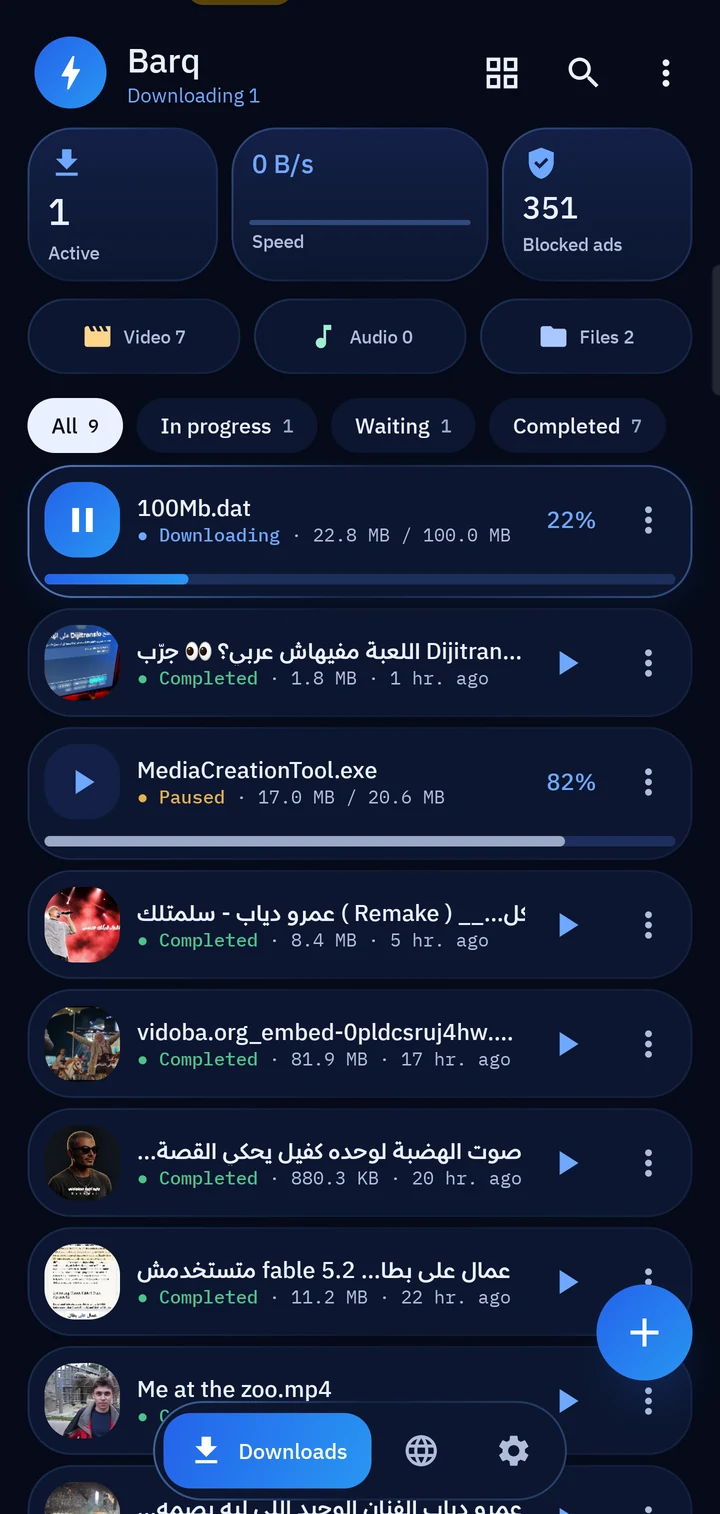
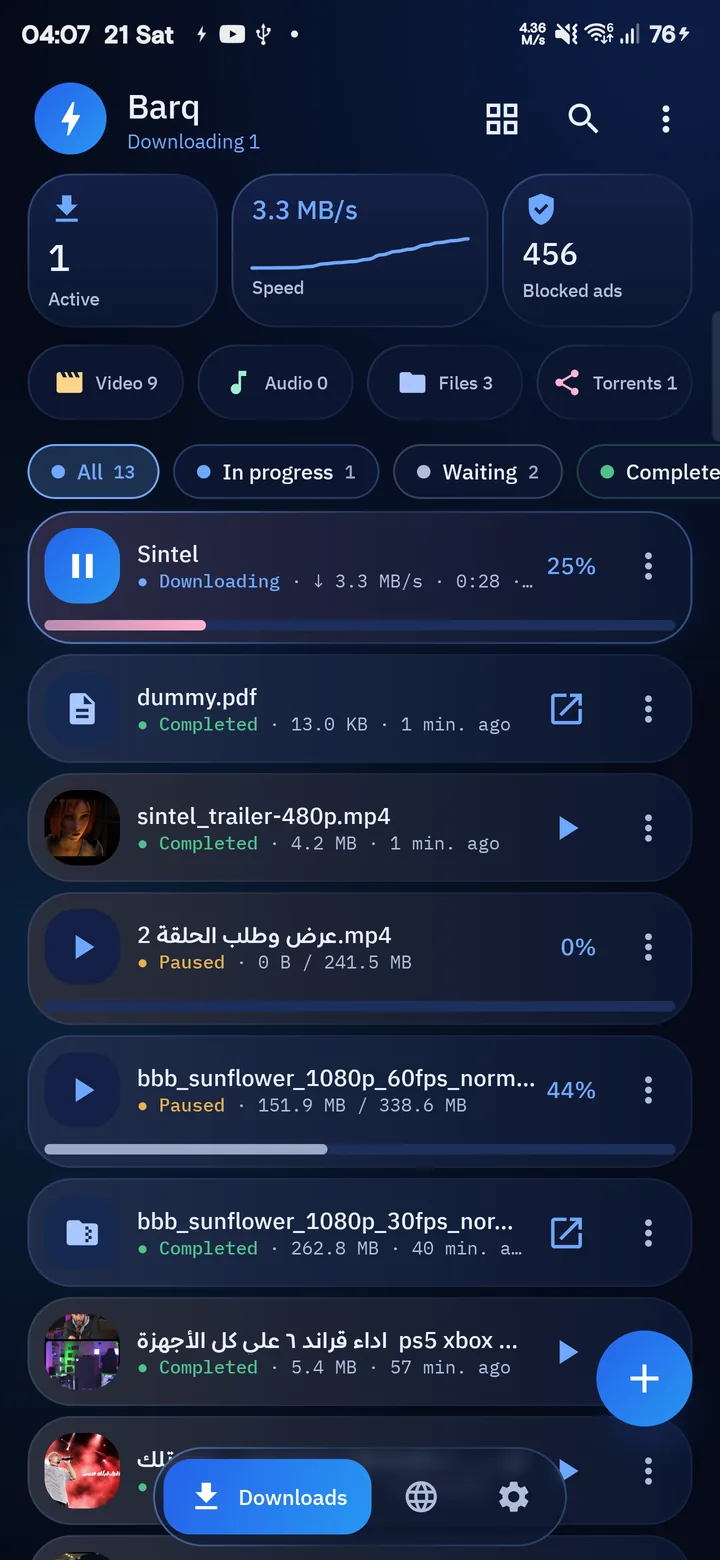
Barq 0.9.2: torrents, new screenshots and animated demos

diff --git a/index.html b/index.html
@@ -33,6 +33,9 @@
     <symbol id="i-wifi" viewBox="0 0 24 24"><path d="M3 9a14 14 0 0 1 18 0M6 12.5a9.5 9.5 0 0 1 12 0M9 16a5 5 0 0 1 6 0" fill="none" stroke="currentColor" stroke-width="1.8" stroke-linecap="round"/><circle cx="12" cy="19" r="1.4" fill="currentColor"/></symbol>
     <symbol id="i-clock" viewBox="0 0 24 24"><circle cx="12" cy="12" r="9" fill="none" stroke="currentColor" stroke-width="1.8"/><path d="M12 7v5l3 2" fill="none" stroke="currentColor" stroke-width="1.8" stroke-linecap="round"/></symbol>
     <symbol id="i-sliders" viewBox="0 0 24 24"><path d="M4 7h10M18 7h2M4 17h2M10 17h10" fill="none" stroke="currentColor" stroke-width="1.8" stroke-linecap="round"/><circle cx="16" cy="7" r="2.2" fill="none" stroke="currentColor" stroke-width="1.8"/><circle cx="8" cy="17" r="2.2" fill="none" stroke="currentColor" stroke-width="1.8"/></symbol>
+    <symbol id="i-torrent" viewBox="0 0 24 24"><circle cx="12" cy="12" r="3" fill="none" stroke="currentColor" stroke-width="1.8"/><circle cx="5" cy="6" r="2" fill="none" stroke="currentColor" stroke-width="1.8"/><circle cx="19" cy="6" r="2" fill="none" stroke="currentColor" stroke-width="1.8"/><circle cx="12" cy="20" r="2" fill="none" stroke="currentColor" stroke-width="1.8"/><path d="M6.5 7.5 10 10.5M17.5 7.5 14 10.5M12 15v3" fill="none" stroke="currentColor" stroke-width="1.8" stroke-linecap="round"/></symbol>
+    <symbol id="i-search" viewBox="0 0 24 24"><circle cx="11" cy="11" r="6.5" fill="none" stroke="currentColor" stroke-width="1.8"/><path d="m16 16 4.5 4.5" fill="none" stroke="currentColor" stroke-width="1.8" stroke-linecap="round"/></symbol>
+    <symbol id="i-update" viewBox="0 0 24 24"><path d="M20 12a8 8 0 1 1-2.4-5.7M20 4v4.5h-4.5" fill="none" stroke="currentColor" stroke-width="1.8" stroke-linecap="round" stroke-linejoin="round"/></symbol>
   </defs>
 </svg>
 
@@ -42,6 +45,7 @@
     <nav class="nav-links" aria-label="Main">
       <a href="#features" data-i="nav.features">Features</a>
       <a href="#showcase" data-i="nav.showcase">Inside the app</a>
+      <a href="#demos" data-i="nav.demos">How it works</a>
       <a href="#customize" data-i="nav.custom">Make it yours</a>
       <a href="#faq" data-i="nav.faq">FAQ</a>
     </nav>
@@ -59,7 +63,7 @@
   <section class="hero">
     <div class="wrap">
       <div class="rv">
-        <span class="pill"><i></i><span data-i="hero.pill">Version 0.9.1 · Android 10 and up</span></span>
+        <span class="pill"><i></i><span data-i="hero.pill">Version 0.9.2 · Android 10 and up</span></span>
         <h1><span data-i="hero.h1a">Download anything.</span><br><span class="grad" data-i="hero.h1b">At lightning speed.</span></h1>
         <p class="lead" data-i="hero.lead">Barq is a smart download manager for Android. Files and videos in the best quality, a browser that spots links, and a floating window to keep an eye on everything.</p>
         <div class="cta">
@@ -106,17 +110,21 @@
       <div class="show rv">
         <div class="tabs" role="tablist">
           <button class="tab" role="tab" aria-selected="true"><h3><em>1</em><span data-i="t1.h">Your downloads at a glance</span></h3><p data-i="t1.p">Active downloads, live speed and blocked ads on top. Below, every file with a coloured state: completed, paused, failed or downloading.</p></button>
-          <button class="tab" role="tab" aria-selected="false"><h3><em>2</em><span data-i="t2.h">Every quality in one window</span></h3><p data-i="t2.p">Share a video link to Barq and a compact window lists every quality with its size, from 144p to 4K. Pick MP4 or MKV, or audio only.</p></button>
-          <button class="tab" role="tab" aria-selected="false"><h3><em>3</em><span data-i="t3.h">Smart downloading</span></h3><p data-i="t3.p">Schedule downloads for set hours, sort files into folders by type, set a speed limit in one tap, and download on Wi-Fi only.</p></button>
-          <button class="tab" role="tab" aria-selected="false"><h3><em>4</em><span data-i="t4.h">Settings that make sense</span></h3><p data-i="t4.p">Each section is one clear row with its current value underneath, so you rarely need to open a page to know where things stand.</p></button>
-          <button class="tab" role="tab" aria-selected="false"><h3><em>5</em><span data-i="t5.h">Ready in seconds</span></h3><p data-i="t5.p">The first launch explains the few permissions Barq needs, then everything works on its own.</p></button>
+          <button class="tab" role="tab" aria-selected="false"><h3><em>2</em><span data-i="t6.h">Torrents, like uTorrent</span></h3><p data-i="t6.p">Open a magnet link or a .torrent file, pick the files you want, and download in order if you want to play while it downloads.</p></button>
+          <button class="tab" role="tab" aria-selected="false"><h3><em>3</em><span data-i="t7.h">Peers, trackers and sharing</span></h3><p data-i="t7.p">See live speed, peers, trackers and the share ratio. Set priorities per file, speed limits, and keep sharing after it finishes.</p></button>
+          <button class="tab" role="tab" aria-selected="false"><h3><em>4</em><span data-i="t8.h">A browser with a start page</span></h3><p data-i="t8.p">Quick sites, your latest downloads and recent pages. The download button shows up only on pages with a playing video.</p></button>
+          <button class="tab" role="tab" aria-selected="false"><h3><em>5</em><span data-i="t2.h">Every quality in one window</span></h3><p data-i="t2.p">Share a video link to Barq and a compact window lists every quality with its size, from 144p to 4K. Pick MP4 or MKV, or audio only.</p></button>
+          <button class="tab" role="tab" aria-selected="false"><h3><em>6</em><span data-i="t3.h">Smart downloading</span></h3><p data-i="t3.p">Schedule downloads for set hours, sort files into folders by type, set a speed limit in one tap, and download on Wi-Fi only.</p></button>
+          <button class="tab" role="tab" aria-selected="false"><h3><em>7</em><span data-i="t4.h">Settings that make sense</span></h3><p data-i="t4.p">Each section is one clear row with its current value underneath, so you rarely need to open a page to know where things stand.</p></button>
         </div>
         <div class="phone-col"><div class="phone"><div class="screen" id="showScreen">
-          <img src="assets/img/downloads.webp" alt="Barq downloads screen" width="720" height="1514" loading="lazy">
-          <img src="assets/img/video.webp" alt="Barq video quality window" width="720" height="1514" loading="lazy">
-          <img src="assets/img/smart.webp" alt="Barq download settings" width="720" height="1514" loading="lazy">
-          <img src="assets/img/settings.webp" alt="Barq settings" width="720" height="1514" loading="lazy">
-          <img src="assets/img/permissions.webp" alt="Barq permissions dialog" width="720" height="1514" loading="lazy">
+          <img src="assets/img/downloads.webp" alt="Barq downloads screen with coloured filters" width="720" height="1560">
+          <img src="assets/img/torrent-sheet.webp" alt="Barq torrent file picker" width="720" height="1560" loading="lazy">
+          <img src="assets/img/torrent-detail.webp" alt="Barq torrent details" width="720" height="1560" loading="lazy">
+          <img src="assets/img/browser-start.webp" alt="Barq browser start page" width="720" height="1560" loading="lazy">
+          <img src="assets/img/video.webp" alt="Barq video quality window" width="720" height="1560" loading="lazy">
+          <img src="assets/img/smart.webp" alt="Barq download settings" width="720" height="1560" loading="lazy">
+          <img src="assets/img/settings.webp" alt="Barq settings" width="720" height="1560" loading="lazy">
         </div></div></div>
       </div>
     </div>
@@ -139,6 +147,9 @@
         <article class="card rv"><div class="ic"><svg><use href="#i-pip"/></svg></div><h3 data-i="f6.h">Floating window</h3><p data-i="f6.p">Progress, speed and a quick pause over any app, even inside the Barq browser.</p></article>
         <article class="card rv"><div class="ic"><svg><use href="#i-wifi"/></svg></div><h3 data-i="f7.h">Never loses a download</h3><p data-i="f7.p">Lost the internet? Downloads wait and continue by themselves. Wi-Fi only and low battery rules are there too.</p></article>
         <article class="card rv"><div class="ic"><svg><use href="#i-clock"/></svg></div><h3 data-i="f8.h">Schedule and sort</h3><p data-i="f8.p">Pick the hours downloads may run (say, at night). Files are sorted into Video, Audio, Images, Documents and Apps folders.</p></article>
+        <article class="card rv"><div class="ic"><svg><use href="#i-torrent"/></svg></div><h3 data-i="f10.h">Torrents</h3><p data-i="f10.p">Magnet links and .torrent files with a file picker, peers, trackers, speed limits and sharing, like uTorrent.</p></article>
+        <article class="card rv"><div class="ic"><svg><use href="#i-search"/></svg></div><h3 data-i="f11.h">Search or paste a link</h3><p data-i="f11.p">The Downloads search box also takes a link: a file downloads, a page opens in the browser. Nothing found? Search Google in one tap.</p></article>
+        <article class="card rv"><div class="ic"><svg><use href="#i-update"/></svg></div><h3 data-i="f12.h">Light and always up to date</h3><p data-i="f12.p">A Light mode for weak phones and a built-in check for new versions.</p></article>
         <article class="card rv"><div class="ic"><svg><use href="#i-sliders"/></svg></div><h3 data-i="f9.h">Make it yours</h3><p data-i="f9.p">App colour, animations, corners, text size and the bottom bar all have a setting.</p></article>
       </div>
     </div>
@@ -151,6 +162,62 @@
       <div class="grid" style="grid-template-columns:repeat(2,1fr);margin-top:24px">
         <article class="card rv"><h3 data-i="b1.h">The floating window</h3><p data-i="b1.p" style="margin-bottom:16px">Follow progress and size, and pause with one tap, above any app.</p><img src="assets/img/capsule.webp" alt="Barq floating download window" width="900" height="185" loading="lazy" style="border-radius:18px;border:1px solid var(--line)"></article>
         <article class="card rv"><h3 data-i="b2.h">The built-in browser</h3><p data-i="b2.p" style="margin-bottom:16px">A start page with your favourite sites, an ad blocker and a download button that finds files.</p><img src="assets/img/browser.webp" alt="Barq browser start page" width="720" height="734" loading="lazy" style="border-radius:18px;border:1px solid var(--line)"></article>
+      </div>
+    </div>
+  </section>
+
+  <!-- animated demos -->
+  <section id="demos">
+    <div class="wrap">
+      <div class="center rv">
+        <span class="eyebrow" data-i="dm.eyebrow">How it works</span>
+        <h2 data-i="dm.h2">See it in motion</h2>
+        <p class="sub" data-i="dm.sub">Four short loops that show the main ideas. They are animations drawn for this page, not screen recordings.</p>
+      </div>
+      <div class="demos">
+
+        <article class="demo rv">
+          <div class="stage d-paste" aria-hidden="true">
+            <div class="urlbar"><svg><use href="#i-link"/></svg><span class="typed">https://site.com/video.mp4</span></div>
+            <div class="pbar"><i></i></div>
+            <div class="pct"><span class="n"></span></div>
+            <div class="chips"><b>Paste</b><b>Share</b><b>Magnet</b><b>Search</b></div>
+          </div>
+          <h3 data-i="d1.h">Four ways to download</h3>
+          <p data-i="d1.p">Paste a link in the + button or in the search box, share it from another app, open a magnet, or search Google when nothing matches.</p>
+        </article>
+
+        <article class="demo rv">
+          <div class="stage d-browser" aria-hidden="true">
+            <div class="addr"><svg><use href="#i-globe"/></svg><span>watch?v=episode-9</span></div>
+            <div class="video"><div class="play"></div><div class="prog"><i></i></div><div class="dlbtn"><svg><use href="#i-dl"/></svg></div></div>
+          </div>
+          <h3 data-i="d2.h">The button appears when there is a video</h3>
+          <p data-i="d2.p">Open the page and play the video first. Only then the download button shows, so there is no confusing button on pages without a video.</p>
+        </article>
+
+        <article class="demo rv">
+          <div class="stage d-torrent" aria-hidden="true">
+            <ul class="files">
+              <li><svg><use href="#i-check"/></svg>movie.mp4<div class="bar"><i style="--w:100%"></i></div></li>
+              <li><svg><use href="#i-check"/></svg>subs.srt<div class="bar"><i style="--w:62%"></i></div></li>
+              <li class="skip"><svg><use href="#i-check"/></svg>extras.zip<div class="bar"><i style="--w:28%"></i></div></li>
+            </ul>
+            <div class="swarm"><svg><use href="#i-bolt"/></svg><u></u><u></u><u></u><u></u><u></u></div>
+          </div>
+          <h3 data-i="d3.h">Torrents with a file picker</h3>
+          <p data-i="d3.p">Choose which files to get, watch peers connect, limit the speed, and keep sharing after it finishes.</p>
+        </article>
+
+        <article class="demo rv">
+          <div class="stage d-ads" aria-hidden="true">
+            <span class="ad a1">AD</span><span class="ad a2">AD</span><span class="ad a3">AD</span>
+            <div class="shield"><svg><use href="#i-shield"/></svg><b class="count"></b></div>
+          </div>
+          <h3 data-i="d4.h">Ads and trackers, blocked</h3>
+          <p data-i="d4.p">A live counter shows what was stopped on the page, and you can turn it off for one site from the shield.</p>
+        </article>
+
       </div>
     </div>
   </section>
@@ -199,8 +266,8 @@
         <div>
           <span class="eyebrow" data-i="dl.eyebrow">Download</span>
           <h2 data-i="dl.h2">Get Barq now</h2>
-          <p class="sub" style="margin:0" data-i="dl.sub">A direct APK file. Version 0.9.1 for Android 10 and up.</p>
-          <div class="meta"><span><span data-i="dl.ver">Version</span> 0.9.1</span><span><span data-i="dl.size">Size</span> <span id="apkSize">—</span></span><span data-i="dl.req">Android 10+</span></div>
+          <p class="sub" style="margin:0" data-i="dl.sub">A direct APK file. Version 0.9.2 for Android 10 and up.</p>
+          <div class="meta"><span><span data-i="dl.ver">Version</span> 0.9.2</span><span><span data-i="dl.size">Size</span> <span id="apkSize">—</span></span><span data-i="dl.req">Android 10+</span></div>
         </div>
         <a class="btn btn-primary" id="apkBtn" href="https://github.com/AbdallaXP/barq/releases/latest/download/Barq.apk"><svg><use href="#i-dl"/></svg><span data-i="dl.btn">Download APK</span></a>
       </div>

diff --git a/assets/css/style.css b/assets/css/style.css
@@ -207,3 +207,73 @@ footer .wrap { display: flex; flex-wrap: wrap; gap: 14px 30px; align-items: cent
   .btn { width: 100%; justify-content: center; }
   .nav .wrap { gap: 10px; } .nav .btn { width: auto; }
 }
+
+
+/* animated demos */
+.demos { display: grid; grid-template-columns: repeat(2, 1fr); gap: 20px; margin-top: 46px; }
+.demo { background: var(--panel); border: 1px solid var(--line); border-radius: 26px; padding: 18px 18px 22px; }
+.demo h3 { margin: 18px 6px 6px; font-size: 21px; }
+.demo p { margin: 0 6px; color: var(--mute); font-size: 16px; }
+.stage { position: relative; height: 230px; border-radius: 18px; overflow: hidden; background: linear-gradient(160deg, #0b1534, #070d22); border: 1px solid var(--line); padding: 16px; }
+.stage svg { width: 18px; height: 18px; flex: none; }
+
+/* paste */
+.d-paste { display: flex; flex-direction: column; justify-content: space-between; }
+.urlbar { display: flex; align-items: center; gap: 8px; background: rgba(5,10,24,.7); border-radius: 12px; padding: 10px 12px; color: var(--accent2); direction: ltr; }
+.urlbar .typed { color: #fff; font-size: 14px; white-space: nowrap; overflow: hidden; width: 0; animation: typing 6s steps(26) infinite; }
+@keyframes typing { 0% { width: 0 } 28% { width: 25ch } 100% { width: 25ch } }
+.pbar { height: 8px; border-radius: 8px; background: rgba(255,255,255,.08); overflow: hidden; }
+.pbar i { display: block; height: 100%; width: 0; background: linear-gradient(90deg, var(--accent), var(--accent2)); animation: fill 6s linear infinite; }
+@keyframes fill { 0%, 28% { width: 0; background: var(--accent) } 80% { width: 100%; } 90%, 100% { width: 100%; background: #4cc38a } }
+.pct { direction: ltr; font-size: 14px; color: var(--accent2); height: 18px; }
+.pct .n::before { content: "0%"; animation: pct 6s linear infinite; }
+@keyframes pct { 0%, 28% { content: "0%" } 40% { content: "20%" } 52% { content: "45%" } 64% { content: "70%" } 76% { content: "90%" } 82%, 100% { content: "100%" } }
+.chips { display: flex; gap: 8px; flex-wrap: wrap; }
+.chips b { font-weight: 600; font-size: 12px; padding: 5px 10px; border-radius: 99px; background: rgba(47,123,255,.18); color: var(--accent2); opacity: 0; animation: pop 6s infinite; }
+.chips b:nth-child(2) { animation-delay: .25s } .chips b:nth-child(3) { animation-delay: .5s } .chips b:nth-child(4) { animation-delay: .75s }
+@keyframes pop { 0%, 8% { opacity: 0; transform: scale(.7) } 16%, 92% { opacity: 1; transform: scale(1) } 100% { opacity: 0 } }
+
+/* browser */
+.d-browser { display: flex; flex-direction: column; gap: 12px; }
+.addr { display: flex; align-items: center; gap: 8px; background: rgba(5,10,24,.7); border-radius: 99px; padding: 8px 14px; color: #9fb3d9; font-size: 13px; direction: ltr; }
+.video { flex: 1; position: relative; border-radius: 14px; background: linear-gradient(135deg, rgba(47,123,255,.4), rgba(56,189,248,.16)); display: grid; place-items: center; overflow: hidden; }
+.play { width: 46px; height: 46px; border-radius: 50%; background: rgba(255,255,255,.92); position: relative; animation: playfade 6s infinite; }
+.play::after { content: ""; position: absolute; inset: 0; margin: auto; width: 0; height: 0; border-left: 14px solid #0b1020; border-top: 9px solid transparent; border-bottom: 9px solid transparent; left: 3px; }
+@keyframes playfade { 0%, 12% { transform: scale(1); opacity: 1 } 20%, 100% { transform: scale(.4); opacity: 0 } }
+.prog { position: absolute; left: 0; bottom: 0; right: 0; height: 4px; background: rgba(255,255,255,.1); }
+.prog i { display: block; height: 100%; background: var(--accent2); width: 0; animation: prog 6s linear infinite; }
+@keyframes prog { 0%, 14% { width: 0 } 100% { width: 100% } }
+.dlbtn { position: absolute; right: 12px; bottom: 14px; width: 42px; height: 42px; border-radius: 14px; background: linear-gradient(135deg, var(--accent), var(--accent2)); display: grid; place-items: center; color: #fff; transform: scale(0); animation: btnpop 6s infinite; }
+.dlbtn svg { width: 22px; height: 22px; }
+@keyframes btnpop { 0%, 38% { transform: scale(0); opacity: 0 } 48% { transform: scale(1.15); opacity: 1 } 54%, 94% { transform: scale(1); opacity: 1 } 100% { transform: scale(0); opacity: 0 } }
+
+/* torrent */
+.d-torrent { display: flex; align-items: center; gap: 14px; }
+.files { list-style: none; margin: 0; padding: 0; flex: 1; display: grid; gap: 14px; }
+.files li { display: grid; grid-template-columns: 18px 1fr; column-gap: 8px; align-items: center; font-size: 14px; direction: ltr; text-align: left; }
+.files li svg { color: #4cc38a; width: 16px; height: 16px; }
+.files li.skip svg { color: #6b7aa6; }
+.files .bar { grid-column: 1 / -1; height: 5px; border-radius: 5px; background: rgba(255,255,255,.08); margin-top: 5px; overflow: hidden; }
+.files .bar i { display: block; height: 100%; width: 0; background: linear-gradient(90deg, var(--accent), var(--accent2)); animation: tfill 5s ease-in-out infinite; }
+@keyframes tfill { 0% { width: 4% } 80%, 100% { width: var(--w) } }
+.swarm { position: relative; width: 104px; height: 104px; flex: none; display: grid; place-items: center; color: var(--accent2); }
+.swarm svg { width: 28px; height: 28px; }
+.swarm::before { content: ""; position: absolute; inset: 30px; border-radius: 50%; background: rgba(47,123,255,.2); }
+.swarm u { position: absolute; width: 9px; height: 9px; border-radius: 50%; background: #4cc38a; top: 50%; left: 50%; margin: -4px; animation: orbit 4s linear infinite; }
+.swarm u:nth-of-type(2n) { background: var(--accent2); }
+.swarm u:nth-of-type(1) { --a: 0deg } .swarm u:nth-of-type(2) { --a: 72deg } .swarm u:nth-of-type(3) { --a: 144deg } .swarm u:nth-of-type(4) { --a: 216deg } .swarm u:nth-of-type(5) { --a: 288deg }
+@keyframes orbit { from { transform: rotate(var(--a)) translateX(42px) } to { transform: rotate(calc(var(--a) + 360deg)) translateX(42px) } }
+
+/* ads */
+.d-ads { display: grid; place-items: center; }
+.shield { text-align: center; color: var(--accent2); z-index: 2; }
+.shield svg { width: 64px; height: 64px; padding: 14px; border-radius: 50%; background: rgba(47,123,255,.18); box-sizing: content-box; }
+.shield b { display: block; margin-top: 6px; font-size: 22px; color: #fff; }
+.count::before { content: "0"; animation: count 4.2s steps(1) infinite; }
+@keyframes count { 0% { content: "0" } 10% { content: "36" } 20% { content: "72" } 30% { content: "108" } 40% { content: "144" } 50% { content: "181" } 60% { content: "217" } 80%, 100% { content: "217" } }
+.ad { position: absolute; padding: 6px 12px; border-radius: 8px; background: rgba(245,112,122,.22); color: #f5707a; font-weight: 700; font-size: 13px; animation: fly 4.2s ease-in infinite; }
+.a1 { left: 10%; top: 24%; --dx: 90px } .a2 { right: 10%; top: 58%; --dx: -90px; animation-delay: 1.2s } .a3 { left: 12%; top: 66%; --dx: 90px; animation-delay: 2.4s }
+@keyframes fly { 0%, 6% { transform: translateX(0) scale(1); opacity: 1 } 60% { transform: translateX(var(--dx)) scale(.5); opacity: 0 } 100% { transform: translateX(0) scale(1); opacity: 0 } }
+
+@media (max-width: 860px) { .demos { grid-template-columns: 1fr; } }
+@media (prefers-reduced-motion: reduce) { .stage * { animation: none !important; } .urlbar .typed { width: 25ch; } .pbar i { width: 100%; } .dlbtn { transform: scale(1); } .files .bar i { width: var(--w); } }

diff --git a/assets/js/main.js b/assets/js/main.js
@@ -5,8 +5,20 @@
   var AR = {
     "title": "برق — مدير التحميلات الأسرع لأندرويد",
     "desc": "برق مدير تحميلات لأندرويد: تحميل بسرعة عالية، فيديو من أي موقع بالجودة اللي تختارها، متصفح يكتشف الملفات، مانع إعلانات، ونوافذ عائمة. بالعربي والإنجليزي.",
+    "nav.demos": "إزاي بيشتغل",
+    "t6.h": "تورنت زي uTorrent", "t6.p": "افتح رابط magnet أو ملف .torrent، واختار الملفات اللي عايزها، وحمّل بالترتيب لو عايز تشغّل وهو بيتحمّل.",
+    "t7.h": "الأقران والمتتبعات والمشاركة", "t7.p": "شوف السرعة اللحظية والأقران والمتتبعات ونسبة المشاركة. حدّد أولوية كل ملف وحدود السرعة، وكمّل المشاركة بعد ما يخلص.",
+    "t8.h": "متصفح بصفحة رئيسية", "t8.p": "مواقع سريعة وآخر تنزيلاتك والصفحات اللي زرتها. وزر التحميل بيظهر بس في الصفحات اللي فيها فيديو شغّال.",
+    "f10.h": "تورنت", "f10.p": "روابط magnet وملفات .torrent مع اختيار الملفات والأقران والمتتبعات وحدود السرعة والمشاركة، زي uTorrent.",
+    "f11.h": "ابحث أو الصق رابط", "f11.p": "خانة البحث في التحميلات بتقبل الروابط كمان: الملف بيتحمّل، والصفحة بتفتح في المتصفح. ملقيتش حاجة؟ دوّر في جوجل بضغطة.",
+    "f12.h": "خفيف ومحدّث", "f12.p": "وضع خفيف للأجهزة الضعيفة، وفحص مدمج للإصدارات الجديدة.",
+    "dm.eyebrow": "إزاي بيشتغل", "dm.h2": "شوفه بالحركة", "dm.sub": "أربع حلقات قصيرة بتوضّح الأفكار الأساسية. دي رسوم متحركة معمولة للصفحة دي، مش تسجيل شاشة.",
+    "d1.h": "أربع طرق للتحميل", "d1.p": "الصق الرابط في زر + أو في خانة البحث، أو شاركه من تطبيق تاني، أو افتح magnet، أو دوّر في جوجل لو مفيش نتيجة.",
+    "d2.h": "الزر بيظهر لما يكون فيه فيديو", "d2.p": "افتح الصفحة وشغّل الفيديو الأول. وقتها بس بيظهر زر التحميل، فمفيش زر مربك في صفحات من غير فيديو.",
+    "d3.h": "تورنت مع اختيار الملفات", "d3.p": "اختار الملفات اللي عايزها، وشوف الأقران وهم بيتصلوا، وحدّد السرعة، وكمّل المشاركة بعد ما يخلص.",
+    "d4.h": "الإعلانات والمتتبعات متحجوبة", "d4.p": "عدّاد مباشر بيوريك اللي اتمنع في الصفحة، وتقدر توقفه لموقع واحد من الدرع.",
     "nav.features": "المميزات", "nav.showcase": "من جوّه التطبيق", "nav.custom": "خصّصه", "nav.faq": "الأسئلة", "nav.download": "تحميل",
-    "hero.pill": "الإصدار 0.9.1 · أندرويد 10 فأحدث",
+    "hero.pill": "الإصدار 0.9.2 · أندرويد 10 فأحدث",
     "hero.h1a": "حمّل أي شيء.", "hero.h1b": "بسرعة البرق.",
     "hero.lead": "برق مدير تحميلات ذكي لأندرويد. ملفات وفيديوهات بأعلى جودة، متصفح يلقط الروابط، ونافذة عائمة تتابع منها كل حاجة.",
     "hero.dl": "تحميل APK", "hero.more": "اكتشف المميزات",
@@ -38,7 +50,7 @@
     "s1.h": "شارك الرابط", "s1.p": "من أي تطبيق اضغط مشاركة واختر برق، أو الصق الرابط جوّه التطبيق.",
     "s2.h": "اختر الجودة", "s2.p": "نافذة صغيرة بتعرض الجودات والأحجام. اختر وابدأ، أو احفظه لوقت لاحق.",
     "s3.h": "تابع وخلاص", "s3.p": "التحميل بيكمل في الخلفية. هتلاقي الملف في مجلد Download/Barq جاهز.",
-    "dl.eyebrow": "التحميل", "dl.h2": "حمّل برق دلوقتي", "dl.sub": "ملف APK مباشر. الإصدار 0.9.1 لأجهزة أندرويد 10 فأحدث.",
+    "dl.eyebrow": "التحميل", "dl.h2": "حمّل برق دلوقتي", "dl.sub": "ملف APK مباشر. الإصدار 0.9.2 لأجهزة أندرويد 10 فأحدث.",
     "dl.btn": "تحميل APK", "dl.ver": "الإصدار", "dl.size": "الحجم", "dl.req": "أندرويد 10+", "dl.sha": "SHA-256",
     "i1.h": "1. نزّل الملف", "i1.p": "اضغط زر التحميل واحفظ ملف الـAPK.",
     "i2.h": "2. اسمح بالتثبيت", "i2.p": "لو أندرويد سأل، اسمح بالتثبيت من المتصفح أو من مدير الملفات.",
